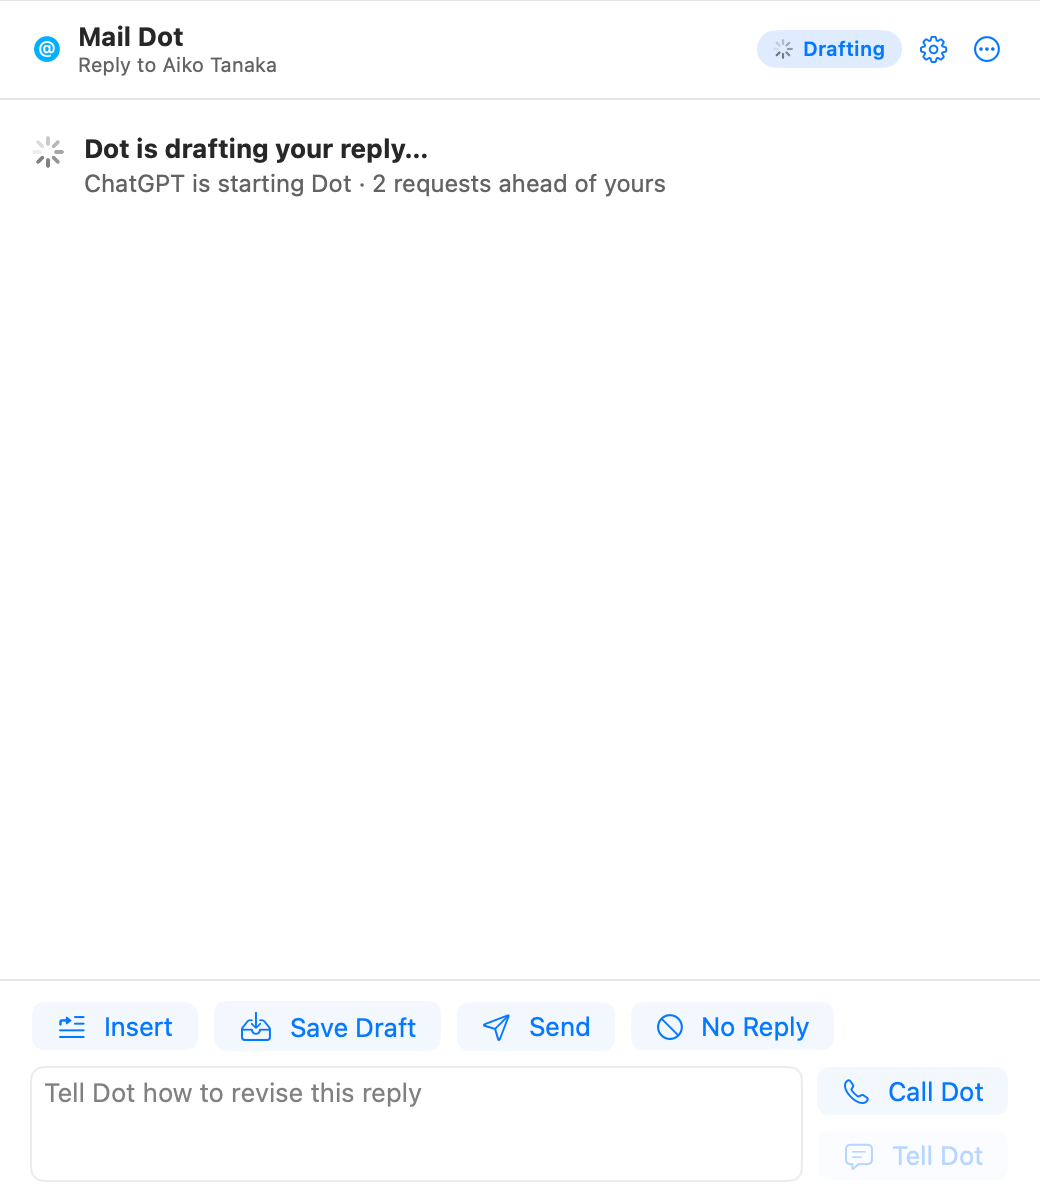
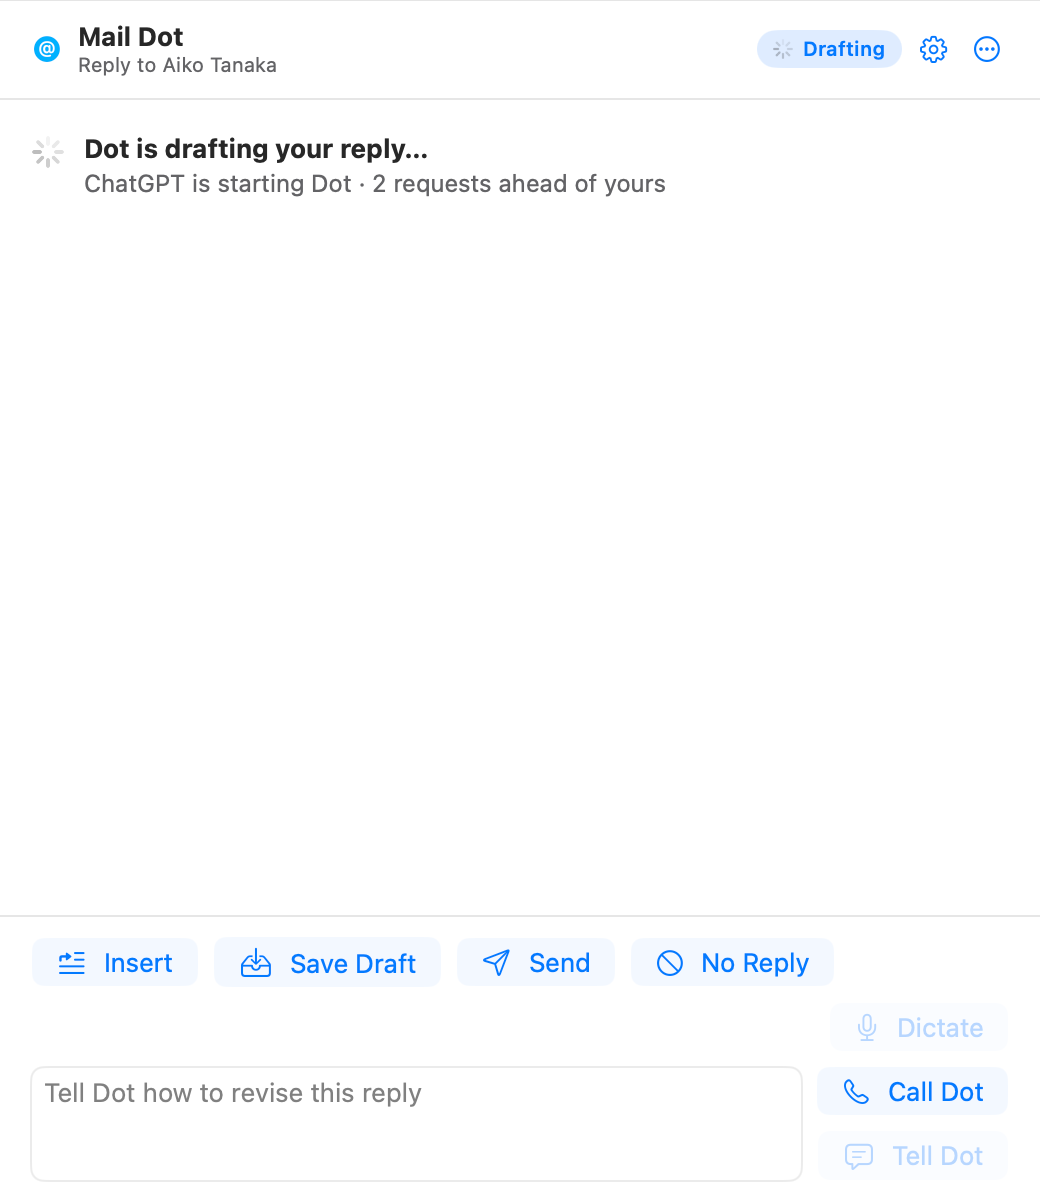
README: reply panel pictures from 0.4.223, with the Dictate button

diff --git a/README.md b/README.md
@@ -107,7 +107,7 @@ Inside the one app are four parts: the Mail extension, which draws the banner, t
 
 In a reply window, the Mail Dot button in the toolbar opens the panel. Insert places Dot's draft at the head of the reply and leaves the quoted mail untouched; Save Draft also saves it to Drafts; No Reply dismisses it. Send places it, brings Mail forward and asks for one confirmation naming the recipients, after which Mail sends the message; Command-Return chooses Send. With **Confirm before sending** turned off under Drafting Rules in the settings, your press of Send is the confirmation; a send Dot prepared during a voice call always waits for your confirmation on the Mac. Dot has no tool that can confirm a send, a message changed after confirmation is not sent, and text inside a message can never authorise an action. The field beneath takes an instruction for revising the draft, which Tell Dot sends, and Call Dot opens a voice call for the same purpose.
 
-<p align="center"><img src="docs/images/reply-draft-ready.png" width="520" alt="Mail Dot's panel in a reply window, showing a draft that Dot has written, with buttons to insert it, save it as a draft, send it or decline to reply, and beneath them a box for telling Dot how to revise it, with Call Dot and Tell Dot beside it."></p>
+<p align="center"><img src="docs/images/reply-draft-ready.png" width="520" alt="Mail Dot's panel in a reply window, showing a draft that Dot has written, with buttons to insert it, save it as a draft, send it or decline to reply, and beneath them a box for telling Dot how to revise it, with Dictate, Call Dot and Tell Dot beside it."></p>
 
 Mail Dot's icon in a message's header opens its settings: Accounts, Drafting Rules (with Sending), Layout and Connection.
 
